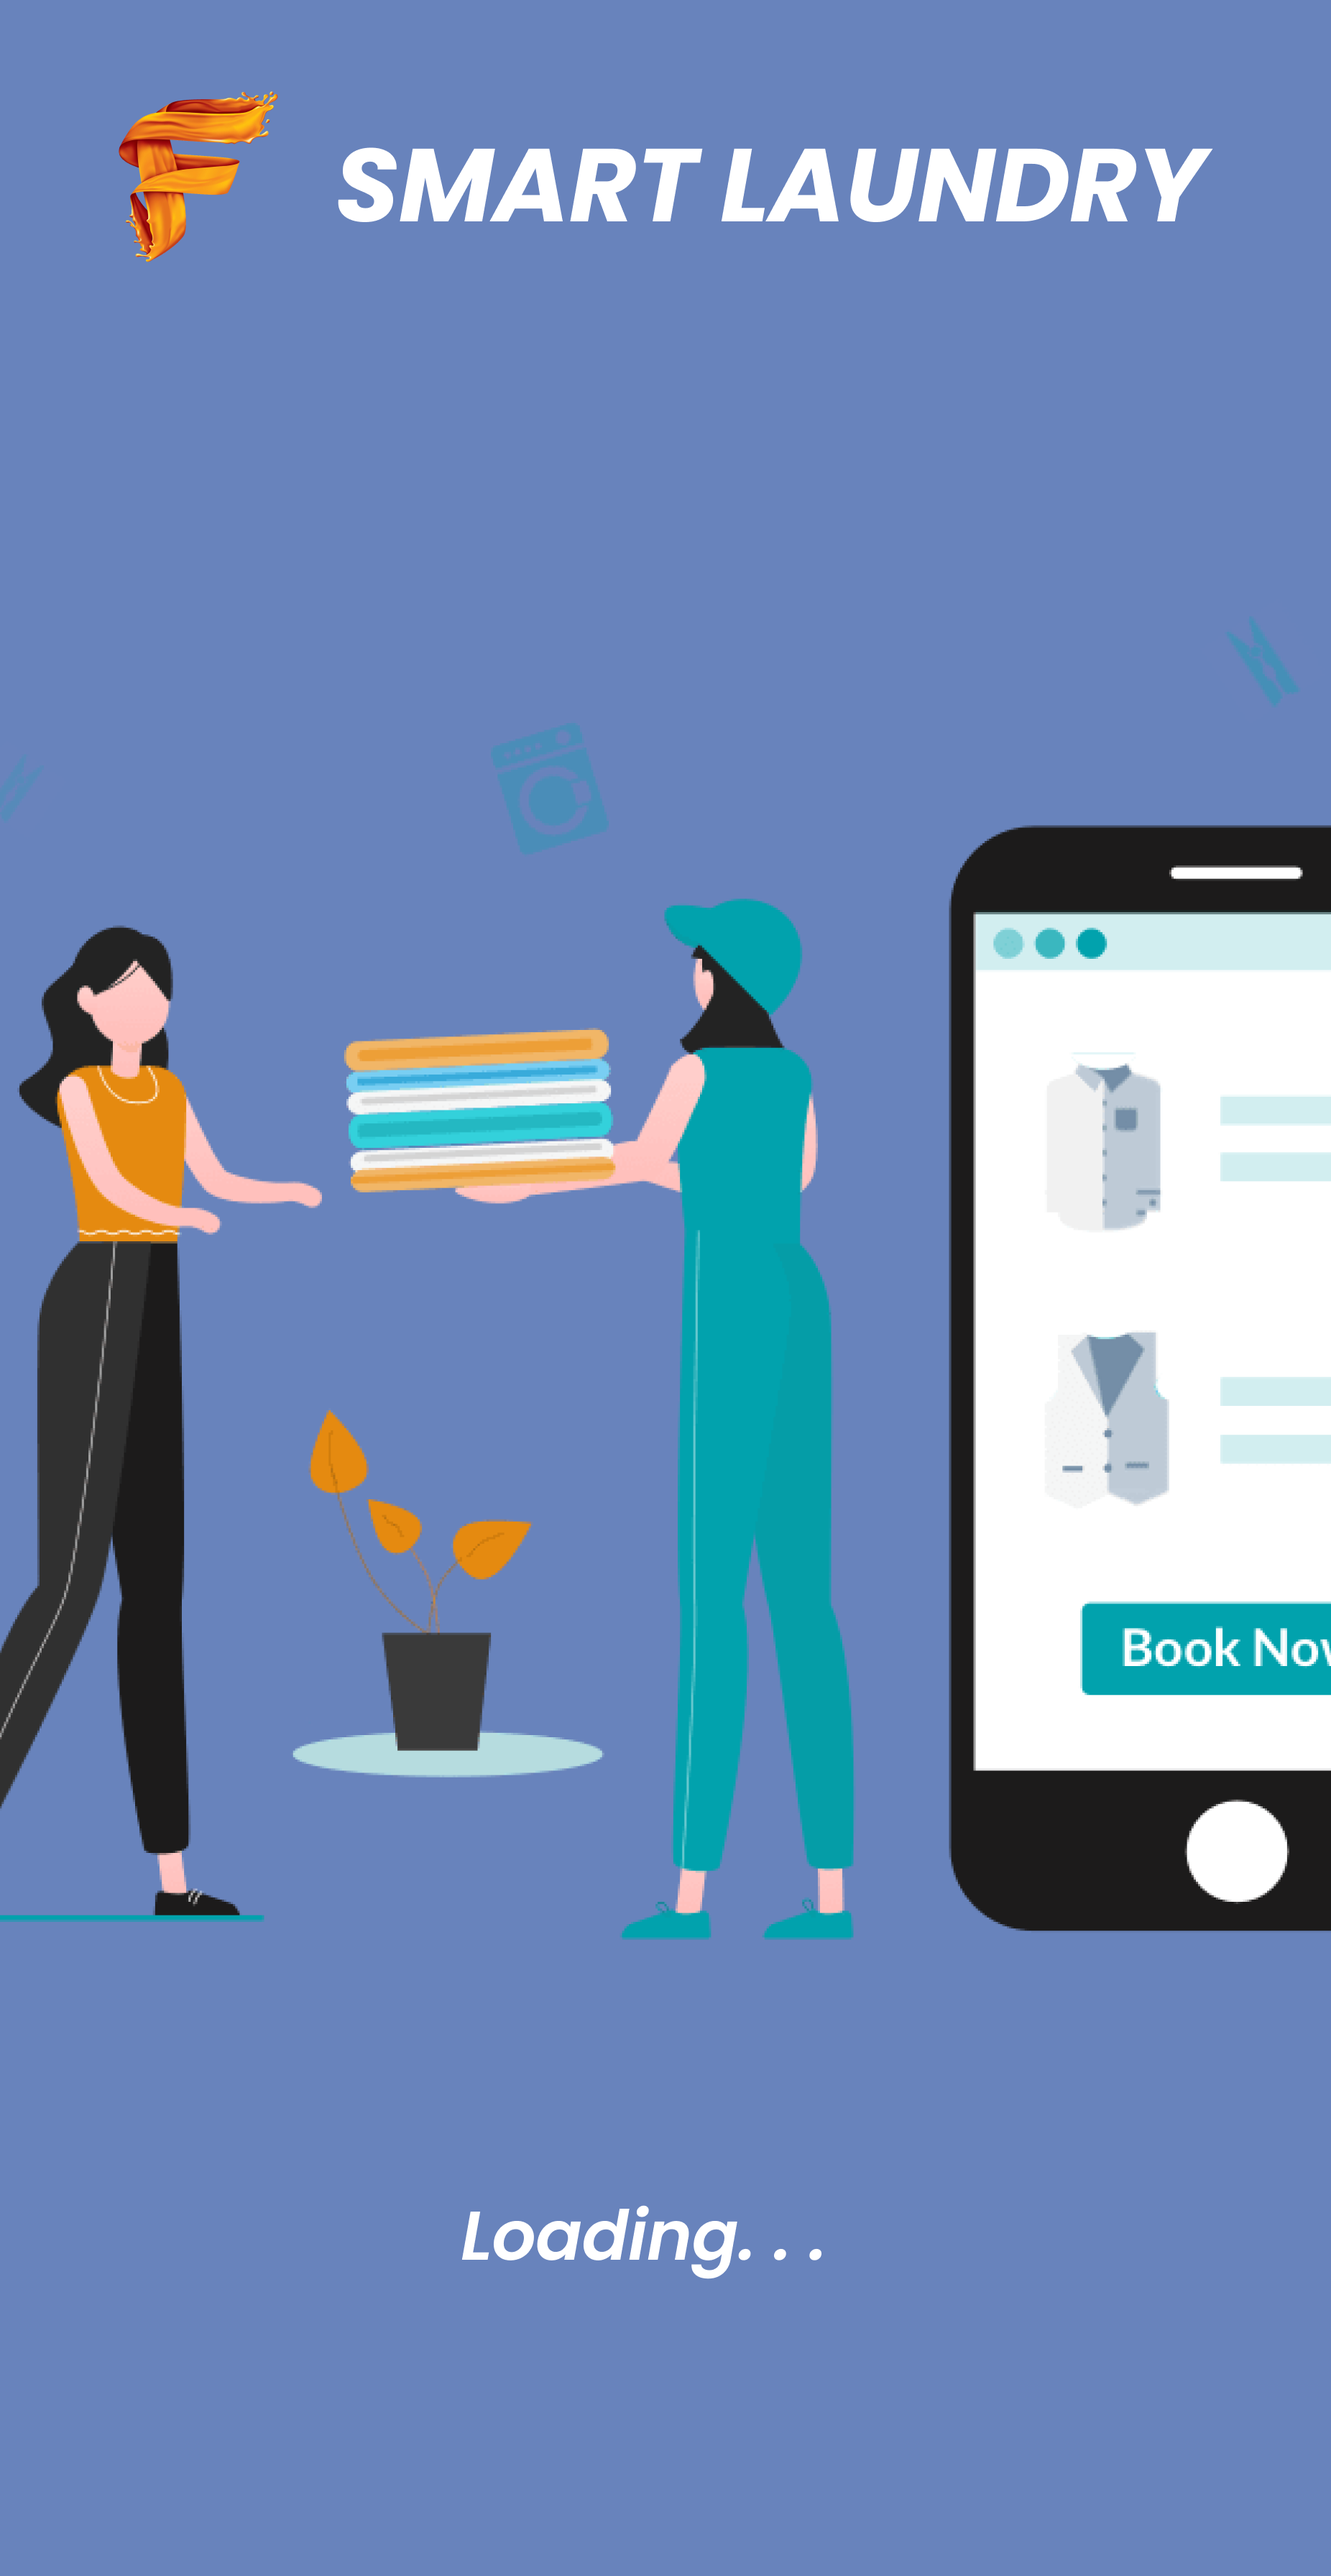
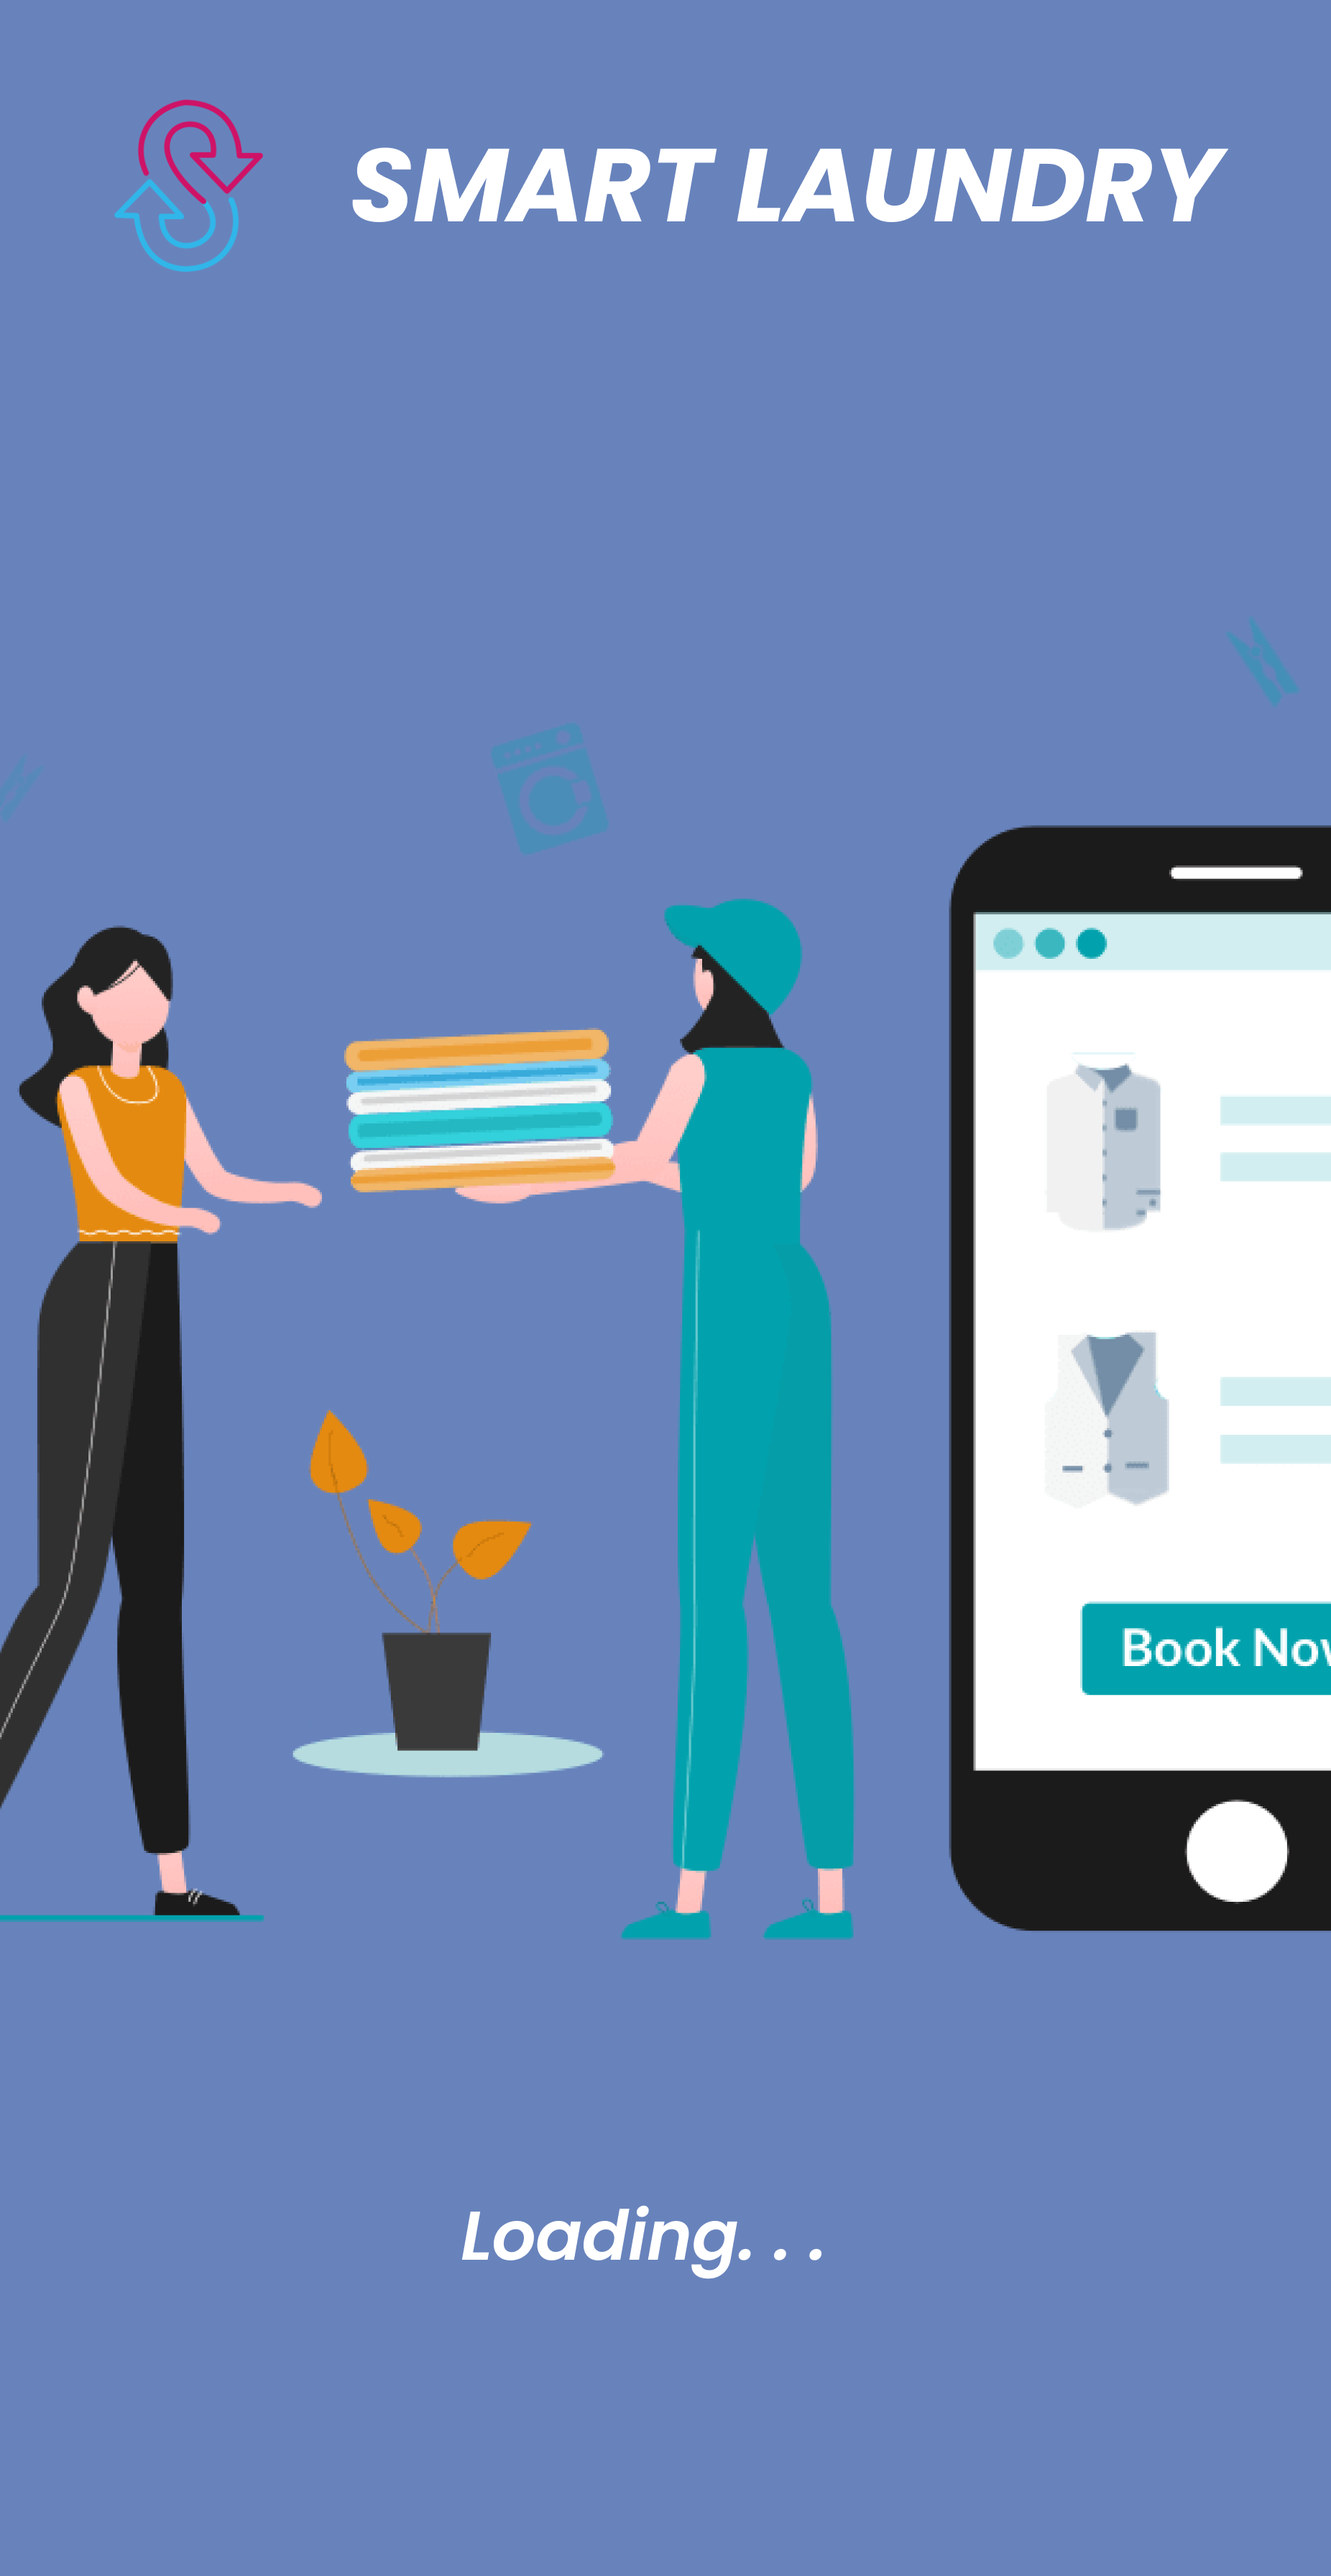
make few upgrade to conditions

Changed region(s): [[0.2462, 0.0312, 0.9233, 0.0938], [0.0923, 0.0312, 0.2154, 0.125]]

diff --git a/src/Components/Dashboard/OrderPage.js b/src/Components/Dashboard/OrderPage.js
@@ -38,45 +38,52 @@ const Main = ({ navigation }) => {
     }
   }, []);
 
+  const payment = useSelector(state => state.payment);
+
   //Add Item to selectedItems
   const addItem = (item, index) => {
-    if(selectedItems.length === 0){
-      item.count = 1;
-      item.order = [{ type: item.type, price: item.price }];
-      setSelectedItems([...selectedItems, item]);
-      setTotalCount(totalCount+ 1);
-      setTotalPrice(totalPrice + item.price);
-    }else{
-      //Check is selected item includes the item id
-      const newBody = { type: item.type, price: item.price }
-      const checkItem = selectedItems.find((value) => value.id === item.id);
-      if(!!checkItem){
-        for(const [key, value] of Object.entries(selectedItems)){
-          if(value.id === item.id){
-            selectedItems[key].count += 1;
-            selectedItems[key].order = [...selectedItems[key].order, newBody];
-            setSelectedItems([...selectedItems]);
-            setTotalCount(totalCount+ 1);
-            setTotalPrice(totalPrice + item.price);
-            // console.log('increase');
-          }
-        }
-      }else{
+    if(payment?.paymentStatus !== true){
+      if(selectedItems.length === 0){
         item.count = 1;
         item.order = [{ type: item.type, price: item.price }];
-        // selectedItems.push(item);
         setSelectedItems([...selectedItems, item]);
         setTotalCount(totalCount+ 1);
         setTotalPrice(totalPrice + item.price);
-        // console.log([...selectedItems]);
+      }else{
+        //Check is selected item includes the item id
+        const newBody = { type: item.type, price: item.price }
+        const checkItem = selectedItems.find((value) => value.id === item.id);
+        if(!!checkItem){
+          for(const [key, value] of Object.entries(selectedItems)){
+            if(value.id === item.id){
+              selectedItems[key].count += 1;
+              selectedItems[key].order = [...selectedItems[key].order, newBody];
+              setSelectedItems([...selectedItems]);
+              setTotalCount(totalCount+ 1);
+              setTotalPrice(totalPrice + item.price);
+              // console.log('increase');
+            }
+          }
+        }else{
+          item.count = 1;
+          item.order = [{ type: item.type, price: item.price }];
+          // selectedItems.push(item);
+          setSelectedItems([...selectedItems, item]);
+          setTotalCount(totalCount+ 1);
+          setTotalPrice(totalPrice + item.price);
+          // console.log([...selectedItems]);
+        }
+        //End of else for selected item not null
       }
-      //End of else for selected item not null
+    }else{
+      alert("Payment proccessed for incomplete order, please click Confirm and Place order");
     }
   };
 
   //Remove Item from selectedItems
   const removeItem = (item, index) => {
-    const newBody = { type: item.type, price: item.price }
+    if(payment?.paymentStatus !== true){
+      const newBody = { type: item.type, price: item.price }
     if(selectedItems.length > 0){
       const checkItem = selectedItems.find((value) => value.id === item.id);
       if(!!checkItem)//yes item found
@@ -145,6 +152,9 @@ const Main = ({ navigation }) => {
             }//we get the specific item with the id
         }
       } //End of item found
+    }
+    }else{
+      alert("Payment proccessed for incomplete order, please click Confirm and Place order");
     }
   };
 

diff --git a/src/Components/Dashboard/LocationPage.js b/src/Components/Dashboard/LocationPage.js
@@ -151,10 +151,14 @@ export default function LocationPage({ navigation, route }) {
                         <GooglePlacesAutocomplete
                             styles={{ container: {
                                 flex: 0,
+                                padding: 0,
+                                margin: 0,
                             },
-                            textInput: { fontSize: 18, }
+                            textInput: { fontSize: 18, },
+                            textInputContainer: { margin: 0, }
                         }}
-                            placeholder={!!pickupAddress ? pickupAddress : 'Pickup from Where'}
+                            placeholder={'Pickup from Where'}
+                            textInputProps={{ value: pickupAddress }}
                             minLength={2}
                             autoFocus={true}
                             fetchDetails={true}
@@ -175,9 +179,11 @@ export default function LocationPage({ navigation, route }) {
                             styles={{ container: {
                                 flex: 0,
                             },
-                            textInput: { fontSize: 18, }
+                            textInput: { fontSize: 18, },
+                            textInputContainer: { margin: 0, padding: 0, }
                         }}
-                            placeholder={!!deliveryAddress ? deliveryAddress : 'Delivery to Where'}
+                            placeholder={'Delivery to Where'}
+                            textInputProps={{ value: deliveryAddress }}
                             minLength={2}
                             autoFocus={true}
                             fetchDetails={true}

diff --git a/src/Components/Dashboard/ConfirmOrderPage.js b/src/Components/Dashboard/ConfirmOrderPage.js
@@ -98,6 +98,12 @@ export default function ConfirmOrderPage({ navigation, route }) {
         }
     };//Function that send the order to api
 
+    useEffect(() => {
+        if(payment?.paymentStatus === true && locationData?.pickupAddressName !== null && locationData?.deliveryAddressName !== null){
+            onSubmit();
+        }
+    },[payment?.paymentStatus]);
+
   return (
     <View style={styles.confirmPageMain}>
         <StatusBar backgroundColor={'transparent'} barStyle="dark-content" />
@@ -238,8 +244,12 @@ export default function ConfirmOrderPage({ navigation, route }) {
                             checkedIcon='check-circle-o'
                             uncheckedIcon='circle-o'
                             onPress={() => {
-                                setPaymentMethod('bank');
-                                dispatch(optBankPayment());
+                                if(payment?.paymentStatus !== true){
+                                    setPaymentMethod('bank');
+                                    dispatch(optBankPayment());
+                                }else{
+                                    alert('Payment already processed for this order using card');
+                                }
                             }}
                             checked={paymentMethod === "bank" ? true : false}
                             size={20}

diff --git a/src/Components/Landing.js b/src/Components/Landing.js
@@ -38,7 +38,7 @@ const LandingPage = ({ navigation }) => {
 
             <View style={authStyle.brandHolderLanding}>
                 <Image style={authStyle.brandLogo} source={require('../Theme/image/logo.png')} />
-                <Text style={authStyle.brandTitle}>First Laundry</Text>
+                <Text style={authStyle.brandTitle}>Smart Laundry</Text>
             </View>
             
             <GestureRecognizer 

diff --git a/src/Theme/styles/user.js b/src/Theme/styles/user.js
@@ -748,14 +748,14 @@ export default StyleSheet.create({
         display: 'flex',
         width: '100%',
         flexDirection: 'row',
-        alignItems: 'center',
+        alignItems: 'flex-start',
         marginTop: 10,
         padding: 10,
     },
 
     locationInputIcon: {
         width: 24,
-        height: 67,
+        height: 87,
     },
 
     locationInputFormHolder: {

diff --git a/src/Components/Auth/Login.js b/src/Components/Auth/Login.js
@@ -48,7 +48,7 @@ export default function LoginPage({ navigation }) {
         <View style={authStyle.brandHolder}>
           <Image style={authStyle.brandLogo} resizeMode={'contain'} source={require('../../Theme/image/logo.png')} />
           <Text style={authStyle.brandTitle}>
-              First Laundry
+              Smart Laundry
           </Text>
         </View>
 

diff --git a/config.js b/config.js
@@ -1,3 +1,4 @@
 export const APPCOUNTRY = 'NG';
 export const APPCURRENCY = '₦';
 // export const linkApi = 'http://192.168.8.102:80/laundry_api';
+export const linkApi = 'http://leadershipandaccountability.org/smart/laundry_api';
